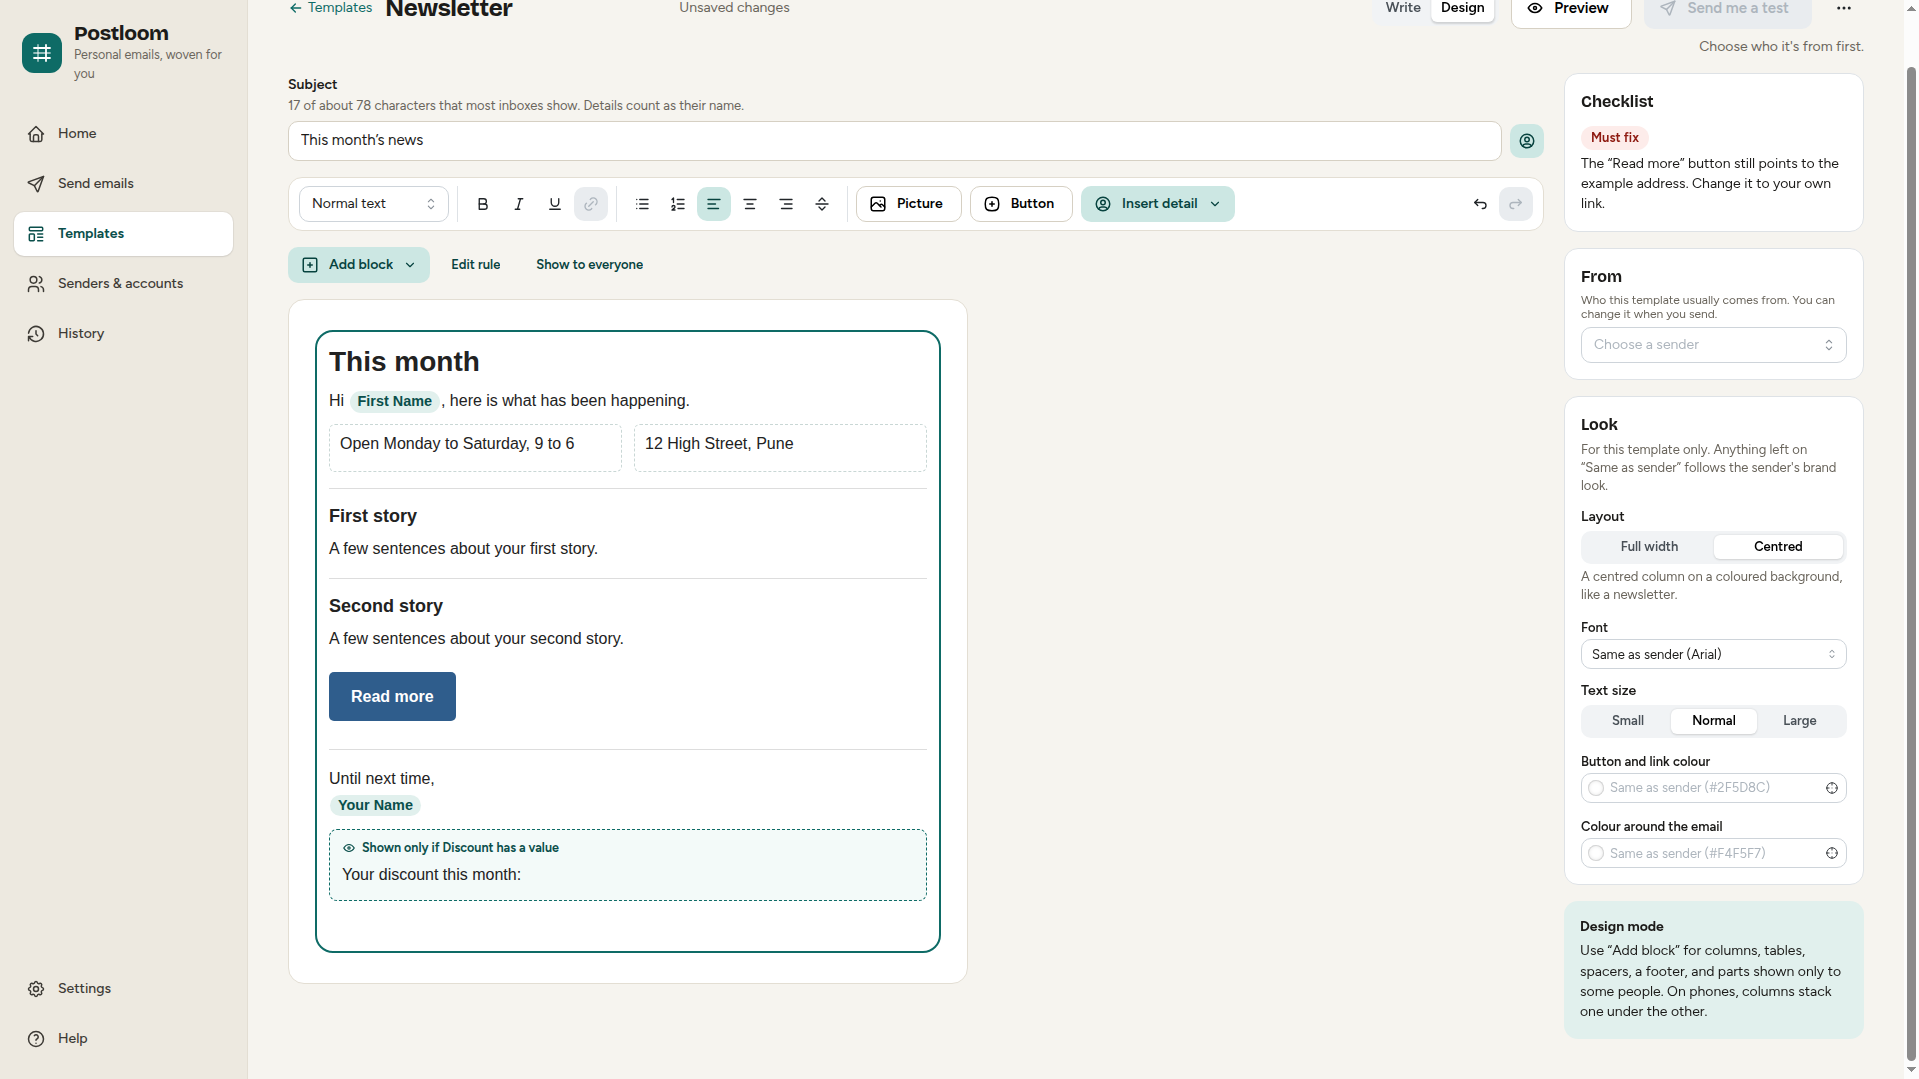
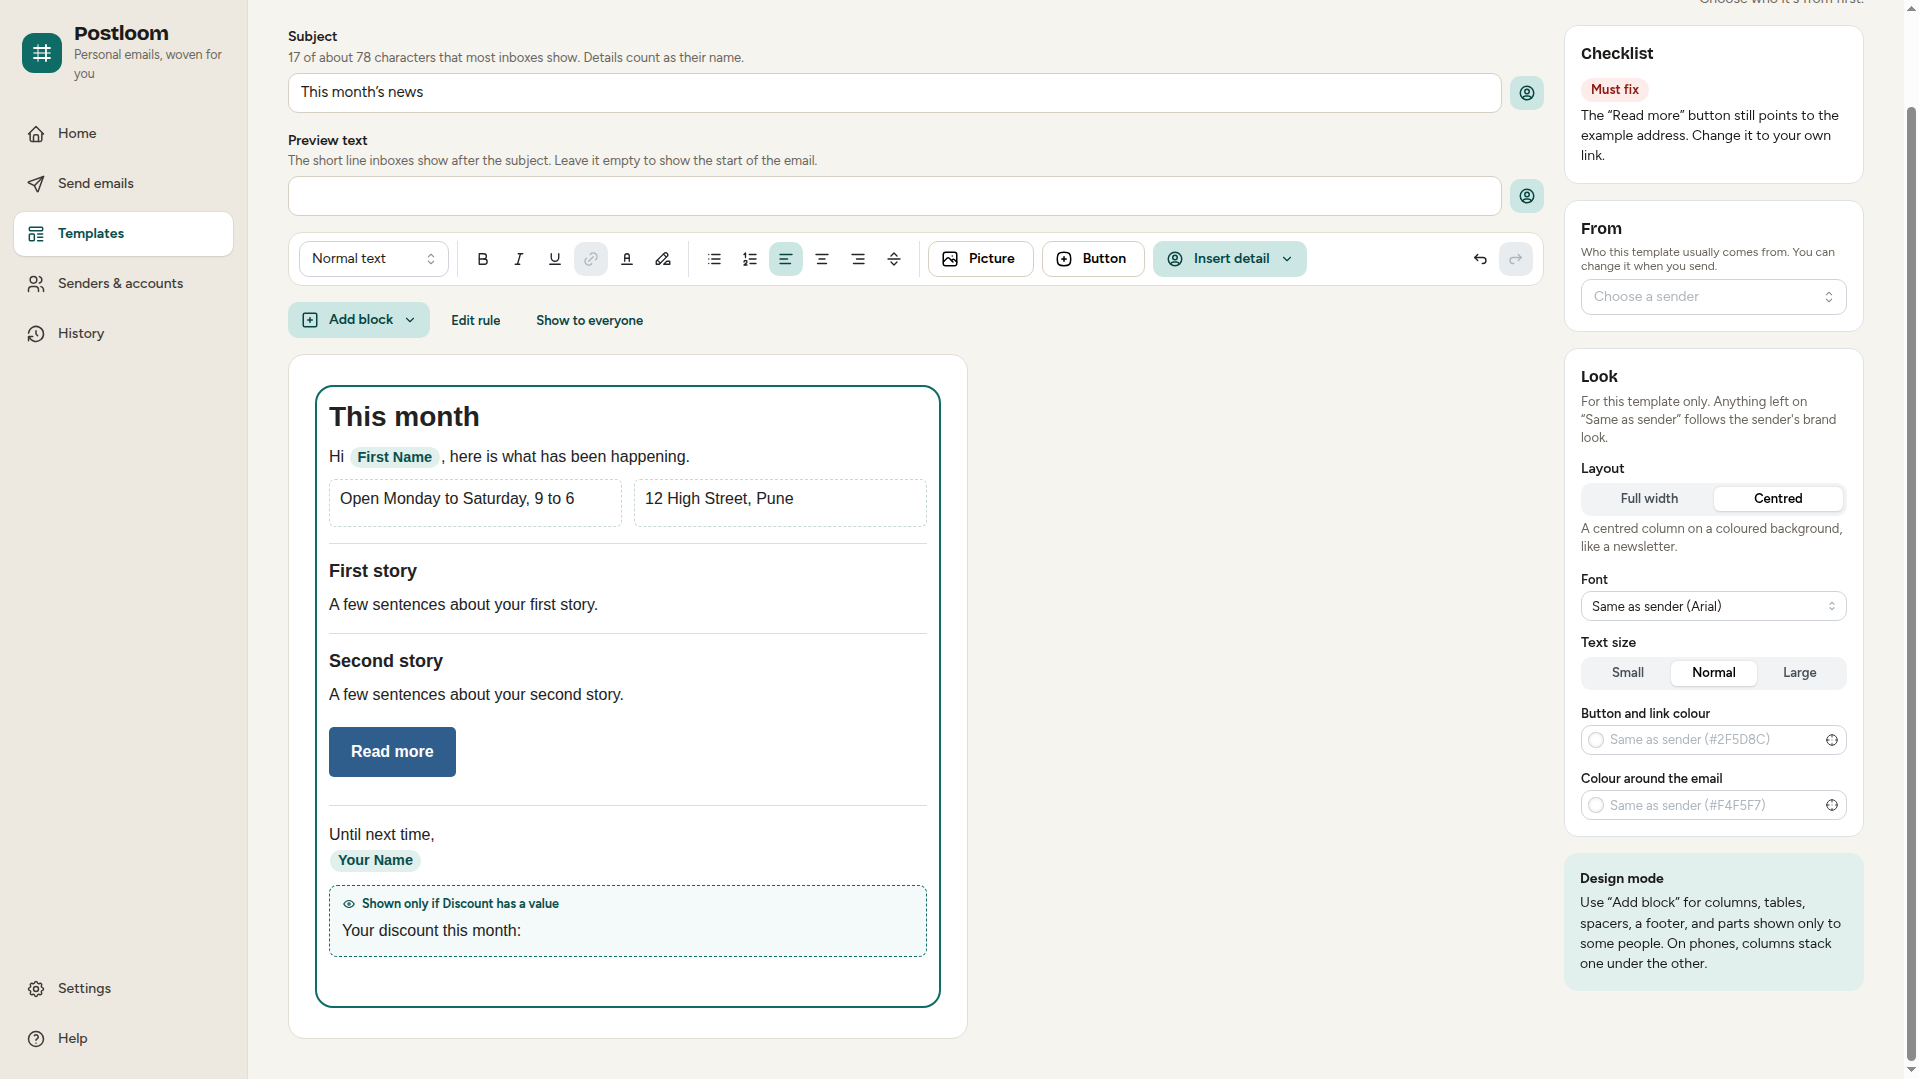
Refresh Store and user-guide screenshots for the new editor features (#29)
- docs/store/screenshots re-captured at 1920x1080; adds 09-table-format
- docs/images re-captured (toolbar colours, preview text, table format)
- Store listing features mention Word import, detail formats, colours,
  preview text and signatures

Claude-Session: https://claude.ai/code/session_01BMQQrWQpb8JeBGLchMfXnE

diff --git a/docs/store/submission.md b/docs/store/submission.md
@@ -121,6 +121,9 @@ or pick manual publishing if you want to choose the day.
 
 > Personal details from your spreadsheet in every email
 > Write like a letter, or design with columns, tables and footers
+> Start from a Word document or an HTML email you already have
+> Dates and amounts shown properly, like 1 October 2026 or ₹1,24,000
+> Text colour, highlight, inbox preview text and sender signatures
 > Full-width letters or centred newsletter layouts
 > Your own logo, colours and fonts, per sender or per template
 > Pictures and attachments that travel inside each email
@@ -145,6 +148,7 @@ with captions:
 6. `06-send-done-light.png` — See who got an email and who didn't, and why.
 7. `07-history-light.png` — Every send is kept in History.
 8. `08-editor-dark.png` — Dark mode.
+9. `09-table-format-light.png` — Tables with your own lines, colours and widths.
 
 Refresh them with
 `SCREENSHOTS=1 SCREENSHOTS_SIZE=1920x1080 SCREENSHOTS_OUT=../../docs/store/screenshots-new xvfb-run -a -s "-screen 0 1920x1080x24" pnpm exec playwright test e2e/screenshots.spec.ts`
